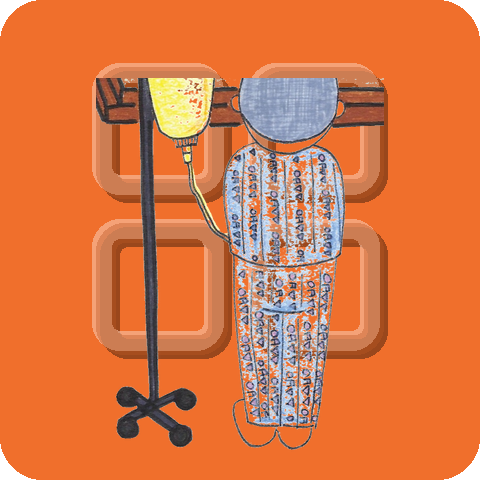
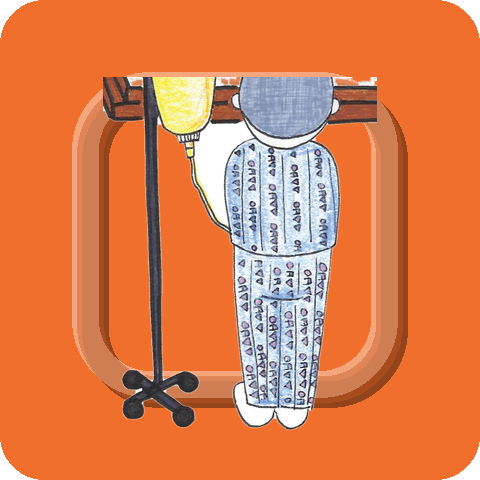
사계절 카드: 카드마다 로고 네모 '한 칸'만 음각 + 캐릭터 불투명 처리
이전 커밋은 카드 4장 모두에 로고 전체(2x2)를 음각으로 넣어, 보내주신
시안과 구조가 달랐다. 시안대로 카드 한 장 = 로고 한 칸으로 바로잡음.

- 여름·가을·겨울: 굵은 테두리 네모 한 칸을 음각
- 봄: 실제 로고의 왼쪽 아래는 네모가 아니라 '봄' 글자이므로,
  로고 원본에서 초록 글자만 색으로 떼어내 마스크로 씀
  (로고 4요소 위치는 브랜드 색으로 측정: 각 77x77)
- 캐릭터·글씨는 음각 대상이 아니므로 그대로 불투명하게 올림

배경 제거 방식도 고침. 밝기 문턱값만 쓰면 캐릭터 안쪽의 밝은 부분
(흰 셔츠, 연한 이불)까지 반투명해져 카드 배경색이 비쳐 보였다.
테두리에서 연결된 흰 영역만 플러드 필로 지우도록 바꾸고, 크레용 획
사이로 종이가 비쳐 생긴 구멍은 모폴로지 클로징으로 메웠다.
겨울은 이불 아래쪽 크레용이 성글어 구분이 안 되므로 크롭을 좁혔다.

검증: 데스크톱·모바일 2x2 배치, 4장 모두 로드, 가로 스크롤·콘솔 에러 없음.

diff --git a/letter-2026-summer.html b/letter-2026-summer.html
@@ -7,7 +7,7 @@
   <meta name="description" content="여름은 다들 떠나는 계절입니다. 그 여름에 병실에 있는 사람에게 보내는 편지. 페루 마추픽추, 산정특례 30일 규칙과 연말정산 장애인 공제, 그리고 2025년에 한 일." />
   <link rel="alternate" hreflang="ko" href="https://nrhoon777.github.io/ddobom-website/letter-2026-summer.html" />
   <link rel="icon" type="image/png" href="assets/img/logo-square.png" />
-  <link rel="stylesheet" href="assets/css/style.css?v=20260811b" />
+  <link rel="stylesheet" href="assets/css/style.css?v=20260811c" />
 </head>
 <body>
   <a href="#main" class="skip-link">본문 바로가기</a>
@@ -339,6 +339,6 @@
     </div>
   </footer>
 
-  <script src="assets/js/main.js?v=20260811b"></script>
+  <script src="assets/js/main.js?v=20260811c"></script>
 </body>
 </html>

diff --git a/letters.html b/letters.html
@@ -7,7 +7,7 @@
   <meta name="description" content="계절마다 한 번, 네 번에 걸쳐 한 해를 도는 또봄의 편지. 여름·가을·겨울·봄, 또봄 로고의 네 네모와 같은 순서입니다." />
   <link rel="alternate" hreflang="ko" href="https://nrhoon777.github.io/ddobom-website/letters.html" />
   <link rel="icon" type="image/png" href="assets/img/logo-square.png" />
-  <link rel="stylesheet" href="assets/css/style.css?v=20260811b" />
+  <link rel="stylesheet" href="assets/css/style.css?v=20260811c" />
 </head>
 <body>
   <a href="#main" class="skip-link">본문 바로가기</a>
@@ -164,6 +164,6 @@
     </div>
   </footer>
 
-  <script src="assets/js/main.js?v=20260811b"></script>
+  <script src="assets/js/main.js?v=20260811c"></script>
 </body>
 </html>

diff --git a/travel-peru.html b/travel-peru.html
@@ -7,7 +7,7 @@
   <meta name="description" content="이카, 나스카, 마추픽추, 쿠스코, 우유니, 69호수. 회복기의 몸을 기준으로 고도순으로 정리한 페루 여행 안내입니다." />
   <link rel="alternate" hreflang="ko" href="https://nrhoon777.github.io/ddobom-website/travel-peru.html" />
   <link rel="icon" type="image/png" href="assets/img/logo-square.png" />
-  <link rel="stylesheet" href="assets/css/style.css?v=20260811b" />
+  <link rel="stylesheet" href="assets/css/style.css?v=20260811c" />
 </head>
 <body>
   <a href="#main" class="skip-link">본문 바로가기</a>
@@ -216,6 +216,6 @@
     </div>
   </footer>
 
-  <script src="assets/js/main.js?v=20260811b"></script>
+  <script src="assets/js/main.js?v=20260811c"></script>
 </body>
 </html>

diff --git a/story-bucketbook.html b/story-bucketbook.html
@@ -7,7 +7,7 @@
   <meta name="description" content="말기암을 이겨낸 뒤 떠난 80일간의 여행. 그 사진으로 만든 포토북을 병원에 전한 2018년 프로젝트 기록입니다." />
   <link rel="alternate" hreflang="ko" href="https://nrhoon777.github.io/ddobom-website/story-bucketbook.html" />
   <link rel="icon" type="image/png" href="assets/img/logo-square.png" />
-  <link rel="stylesheet" href="assets/css/style.css?v=20260811b" />
+  <link rel="stylesheet" href="assets/css/style.css?v=20260811c" />
 </head>
 <body>
   <a href="#main" class="skip-link">본문 바로가기</a>
@@ -238,6 +238,6 @@
     </div>
   </footer>
 
-  <script src="assets/js/main.js?v=20260811b"></script>
+  <script src="assets/js/main.js?v=20260811c"></script>
 </body>
 </html>

diff --git a/index.html b/index.html
@@ -12,7 +12,7 @@
   <link rel="alternate" hreflang="en" href="https://nrhoon777.github.io/ddobom-website/en/index.html" />
   <link rel="alternate" hreflang="x-default" href="https://nrhoon777.github.io/ddobom-website/index.html" />
   <link rel="icon" type="image/png" href="assets/img/logo-square.png" />
-  <link rel="stylesheet" href="assets/css/style.css?v=20260811b" />
+  <link rel="stylesheet" href="assets/css/style.css?v=20260811c" />
 </head>
 <body>
   <a href="#main" class="skip-link">본문 바로가기</a>
@@ -448,7 +448,7 @@
     </div>
   </footer>
 
-  <script src="assets/js/main.js?v=20260811b"></script>
+  <script src="assets/js/main.js?v=20260811c"></script>
   <script type="module" src="assets/js/news-loader.js?v=20260807f"></script>
 </body>
 </html>

diff --git a/story-cheerup.html b/story-cheerup.html
@@ -7,7 +7,7 @@
   <meta name="description" content="암 경험자와 시민이 한자리에서 이야기하고 노래하는 토크·싱 콘서트. 2023년부터 네 번 열린 기록입니다." />
   <link rel="alternate" hreflang="ko" href="https://nrhoon777.github.io/ddobom-website/story-cheerup.html" />
   <link rel="icon" type="image/png" href="assets/img/logo-square.png" />
-  <link rel="stylesheet" href="assets/css/style.css?v=20260811b" />
+  <link rel="stylesheet" href="assets/css/style.css?v=20260811c" />
 </head>
 <body>
   <a href="#main" class="skip-link">본문 바로가기</a>
@@ -167,6 +167,6 @@
     </div>
   </footer>
 
-  <script src="assets/js/main.js?v=20260811b"></script>
+  <script src="assets/js/main.js?v=20260811c"></script>
 </body>
 </html>

diff --git a/story-gift-2020.html b/story-gift-2020.html
@@ -7,7 +7,7 @@
   <meta name="description" content="코로나로 만남이 어려웠던 2020년 겨울, 투병 중인 청년에게 여행 포토북을 보낸 캠페인 기록입니다." />
   <link rel="alternate" hreflang="ko" href="https://nrhoon777.github.io/ddobom-website/story-gift-2020.html" />
   <link rel="icon" type="image/png" href="assets/img/logo-square.png" />
-  <link rel="stylesheet" href="assets/css/style.css?v=20260811b" />
+  <link rel="stylesheet" href="assets/css/style.css?v=20260811c" />
 </head>
 <body>
   <a href="#main" class="skip-link">본문 바로가기</a>
@@ -133,6 +133,6 @@
     </div>
   </footer>
 
-  <script src="assets/js/main.js?v=20260811b"></script>
+  <script src="assets/js/main.js?v=20260811c"></script>
 </body>
 </html>

diff --git a/en/story-bucketbook.html b/en/story-bucketbook.html
@@ -8,7 +8,7 @@
   <link rel="alternate" hreflang="ko" href="https://nrhoon777.github.io/ddobom-website/story-bucketbook.html" />
   <link rel="alternate" hreflang="en" href="https://nrhoon777.github.io/ddobom-website/en/story-bucketbook.html" />
   <link rel="icon" type="image/png" href="../assets/img/logo-square.png" />
-  <link rel="stylesheet" href="../assets/css/style.css?v=20260811b" />
+  <link rel="stylesheet" href="../assets/css/style.css?v=20260811c" />
 </head>
 <body>
   <a href="#main" class="skip-link">Skip to content</a>
@@ -273,6 +273,6 @@
     </div>
   </footer>
 
-  <script src="../assets/js/main.js?v=20260811b"></script>
+  <script src="../assets/js/main.js?v=20260811c"></script>
 </body>
 </html>

diff --git a/en/story-gift-2020.html b/en/story-gift-2020.html
@@ -8,7 +8,7 @@
   <link rel="alternate" hreflang="ko" href="https://nrhoon777.github.io/ddobom-website/story-gift-2020.html" />
   <link rel="alternate" hreflang="en" href="https://nrhoon777.github.io/ddobom-website/en/story-gift-2020.html" />
   <link rel="icon" type="image/png" href="../assets/img/logo-square.png" />
-  <link rel="stylesheet" href="../assets/css/style.css?v=20260811b" />
+  <link rel="stylesheet" href="../assets/css/style.css?v=20260811c" />
 </head>
 <body>
   <a href="#main" class="skip-link">Skip to content</a>
@@ -174,6 +174,6 @@
     </div>
   </footer>
 
-  <script src="../assets/js/main.js?v=20260811b"></script>
+  <script src="../assets/js/main.js?v=20260811c"></script>
 </body>
 </html>

diff --git a/en/story-cheerup.html b/en/story-cheerup.html
@@ -8,7 +8,7 @@
   <link rel="alternate" hreflang="ko" href="https://nrhoon777.github.io/ddobom-website/story-cheerup.html" />
   <link rel="alternate" hreflang="en" href="https://nrhoon777.github.io/ddobom-website/en/story-cheerup.html" />
   <link rel="icon" type="image/png" href="../assets/img/logo-square.png" />
-  <link rel="stylesheet" href="../assets/css/style.css?v=20260811b" />
+  <link rel="stylesheet" href="../assets/css/style.css?v=20260811c" />
 </head>
 <body>
   <a href="#main" class="skip-link">Skip to content</a>
@@ -205,6 +205,6 @@
     </div>
   </footer>
 
-  <script src="../assets/js/main.js?v=20260811b"></script>
+  <script src="../assets/js/main.js?v=20260811c"></script>
 </body>
 </html>

diff --git a/en/programs.html b/en/programs.html
@@ -9,7 +9,7 @@
   <link rel="alternate" hreflang="en" href="https://nrhoon777.github.io/ddobom-website/en/programs.html" />
   <link rel="alternate" hreflang="x-default" href="https://nrhoon777.github.io/ddobom-website/programs.html" />
   <link rel="icon" type="image/png" href="../assets/img/logo-square.png" />
-  <link rel="stylesheet" href="../assets/css/style.css?v=20260811b" />
+  <link rel="stylesheet" href="../assets/css/style.css?v=20260811c" />
 </head>
 <body>
   <a href="#main" class="skip-link">Skip to content</a>
@@ -309,6 +309,6 @@
     </div>
   </footer>
 
-  <script src="../assets/js/main.js?v=20260811b"></script>
+  <script src="../assets/js/main.js?v=20260811c"></script>
 </body>
 </html>

diff --git a/en/donate.html b/en/donate.html
@@ -9,7 +9,7 @@
   <link rel="alternate" hreflang="en" href="https://nrhoon777.github.io/ddobom-website/en/donate.html" />
   <link rel="alternate" hreflang="x-default" href="https://nrhoon777.github.io/ddobom-website/donate.html" />
   <link rel="icon" type="image/png" href="../assets/img/logo-square.png" />
-  <link rel="stylesheet" href="../assets/css/style.css?v=20260811b" />
+  <link rel="stylesheet" href="../assets/css/style.css?v=20260811c" />
 </head>
 <body>
   <a href="#main" class="skip-link">Skip to content</a>
@@ -213,6 +213,6 @@
     </div>
   </footer>
 
-  <script src="../assets/js/main.js?v=20260811b"></script>
+  <script src="../assets/js/main.js?v=20260811c"></script>
 </body>
 </html>
